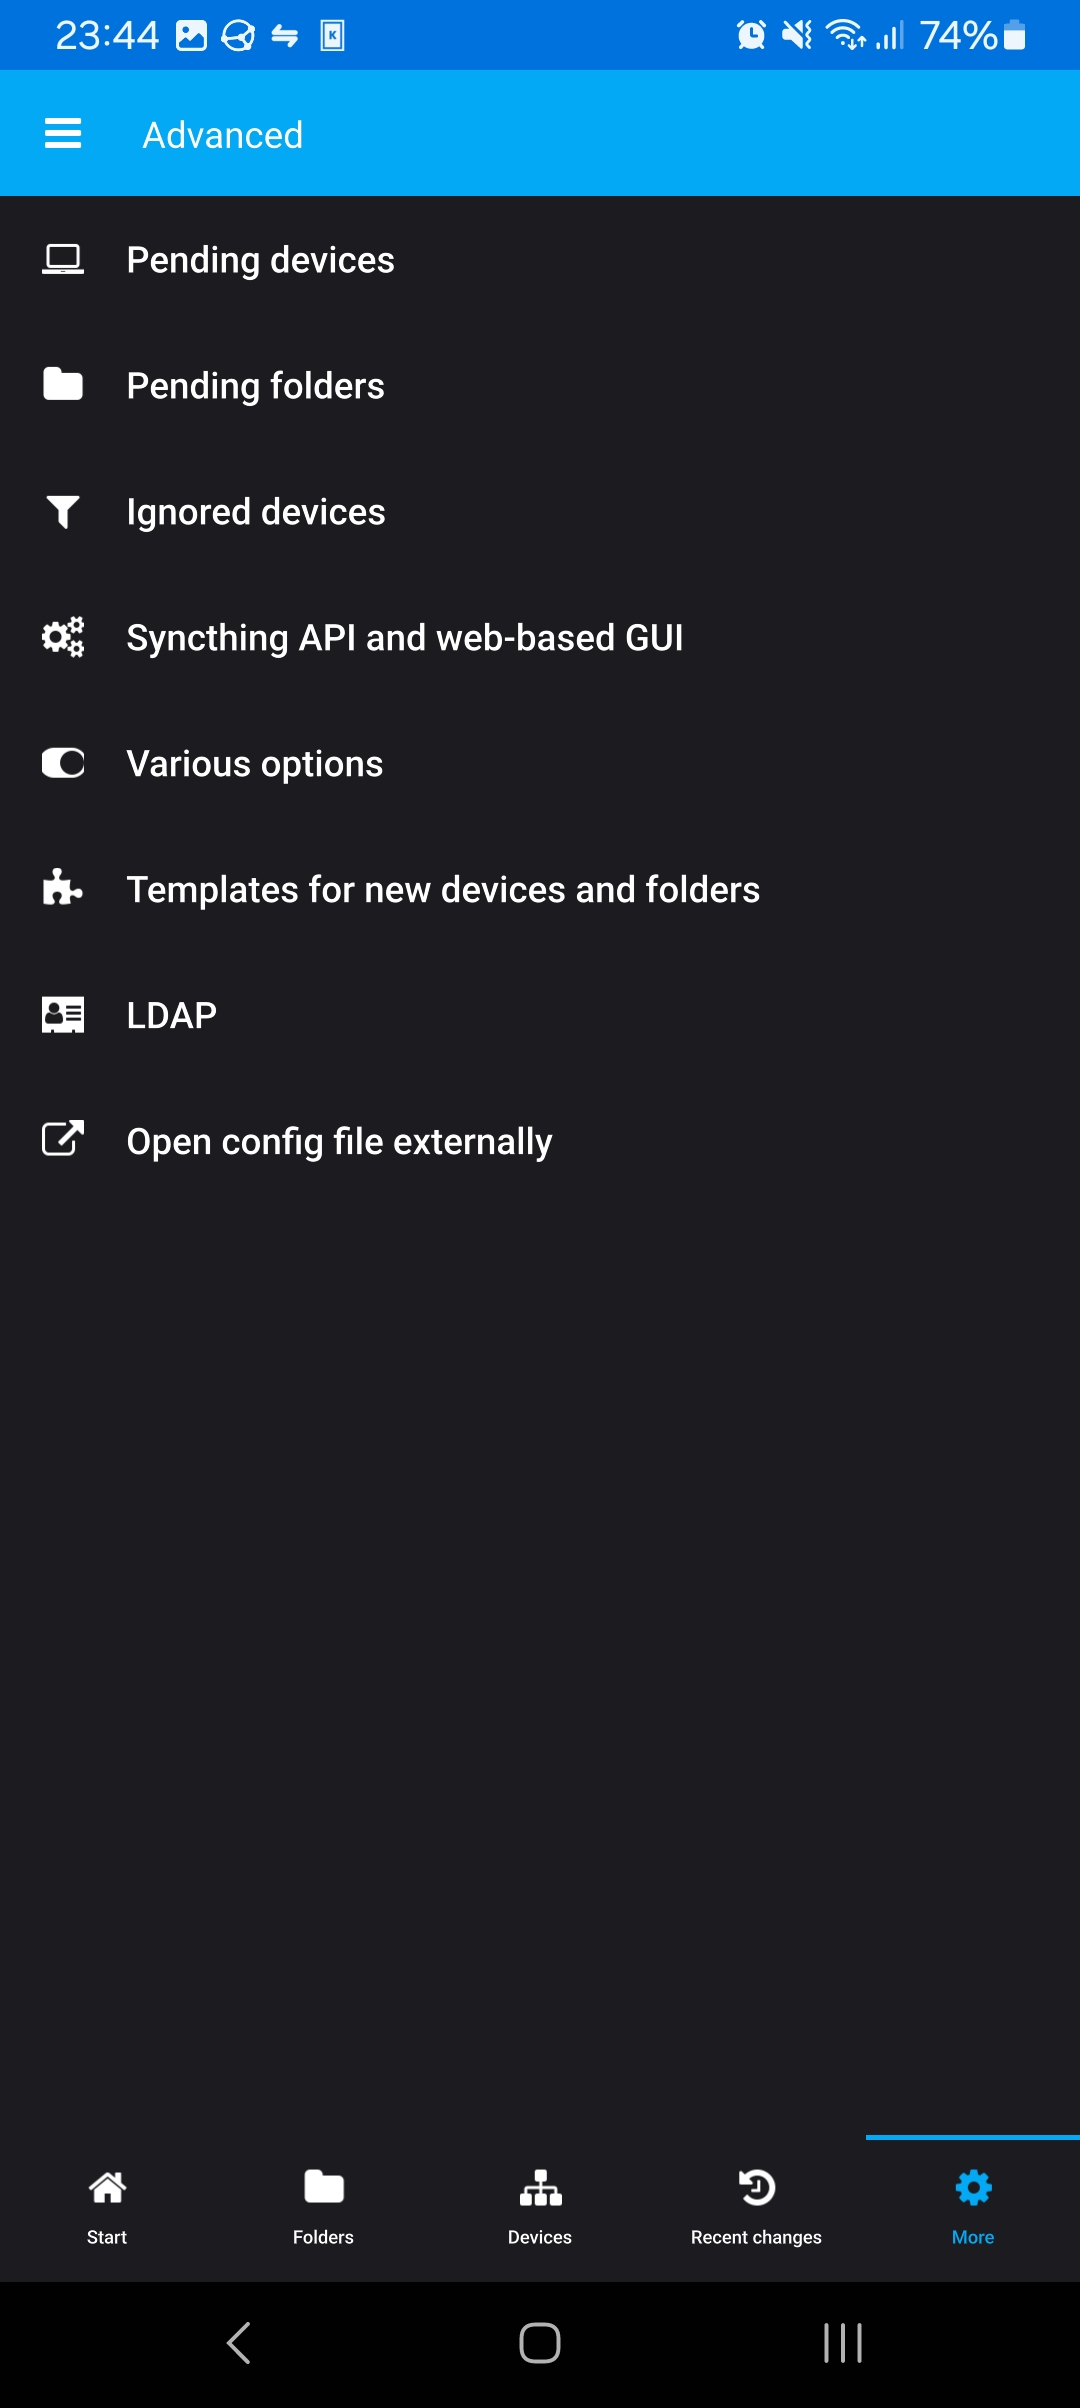
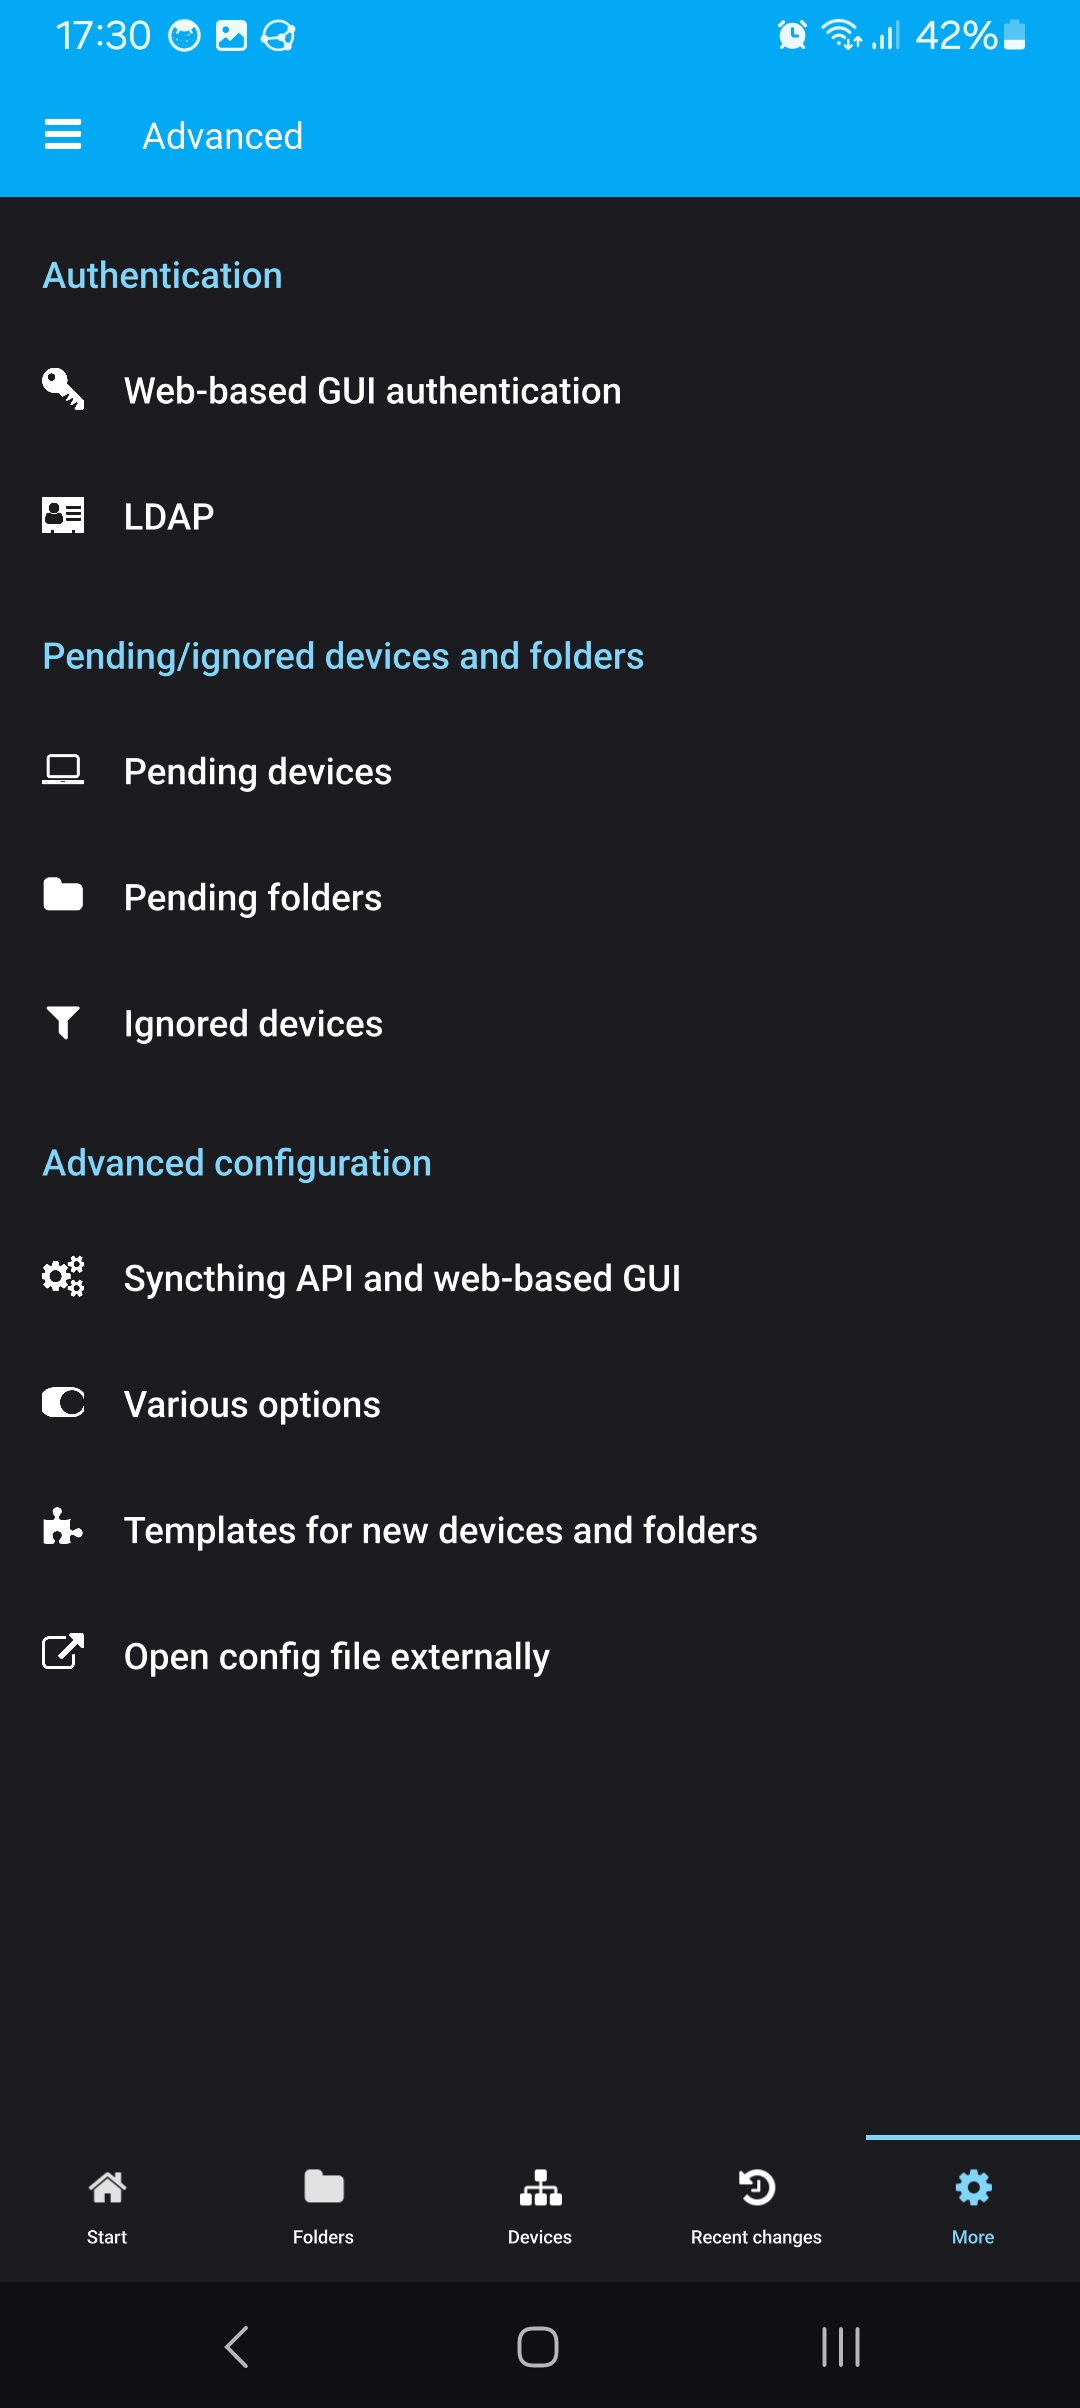
Update screenshots of mobile UI after recent changes

diff --git a/docs/screenshots.md b/docs/screenshots.md
@@ -30,14 +30,15 @@ The screenshots are not up-to-date.
 ## Mobile UI on Android
 ![Startpage](/tray/resources/screenshots/mobile/startpage.jpg)
 ![Folders](/tray/resources/screenshots/mobile/folders.jpg)
-![Folders](/tray/resources/screenshots/mobile/folders-2.jpg)
 ![Folders (darkmode)](/tray/resources/screenshots/mobile/dark-folders.jpg)
 ![Folder config](/tray/resources/screenshots/mobile/folder-config.jpg)
 
+![App settings](/tray/resources/screenshots/mobile/settings.jpg)
 ![Import](/tray/resources/screenshots/mobile/import.jpg)
-![Run config](/tray/resources/screenshots/mobile/run-config.jpg)
+![Run configuration](/tray/resources/screenshots/mobile/run-config.jpg)
+![Tweaks](/tray/resources/screenshots/mobile/tweaks.jpg)
 
 ![Devices](/tray/resources/screenshots/mobile/dark-devices.jpg)
-![Advanced](/tray/resources/screenshots/mobile/dark-advanced.jpg)
+![Advanced Syncthing configuration](/tray/resources/screenshots/mobile/dark-advanced.jpg)
 ![File tree 1](/tray/resources/screenshots/mobile/dark-file-tree-1.jpg)
 ![File tree 2](/tray/resources/screenshots/mobile/dark-file-tree-2.jpg)
